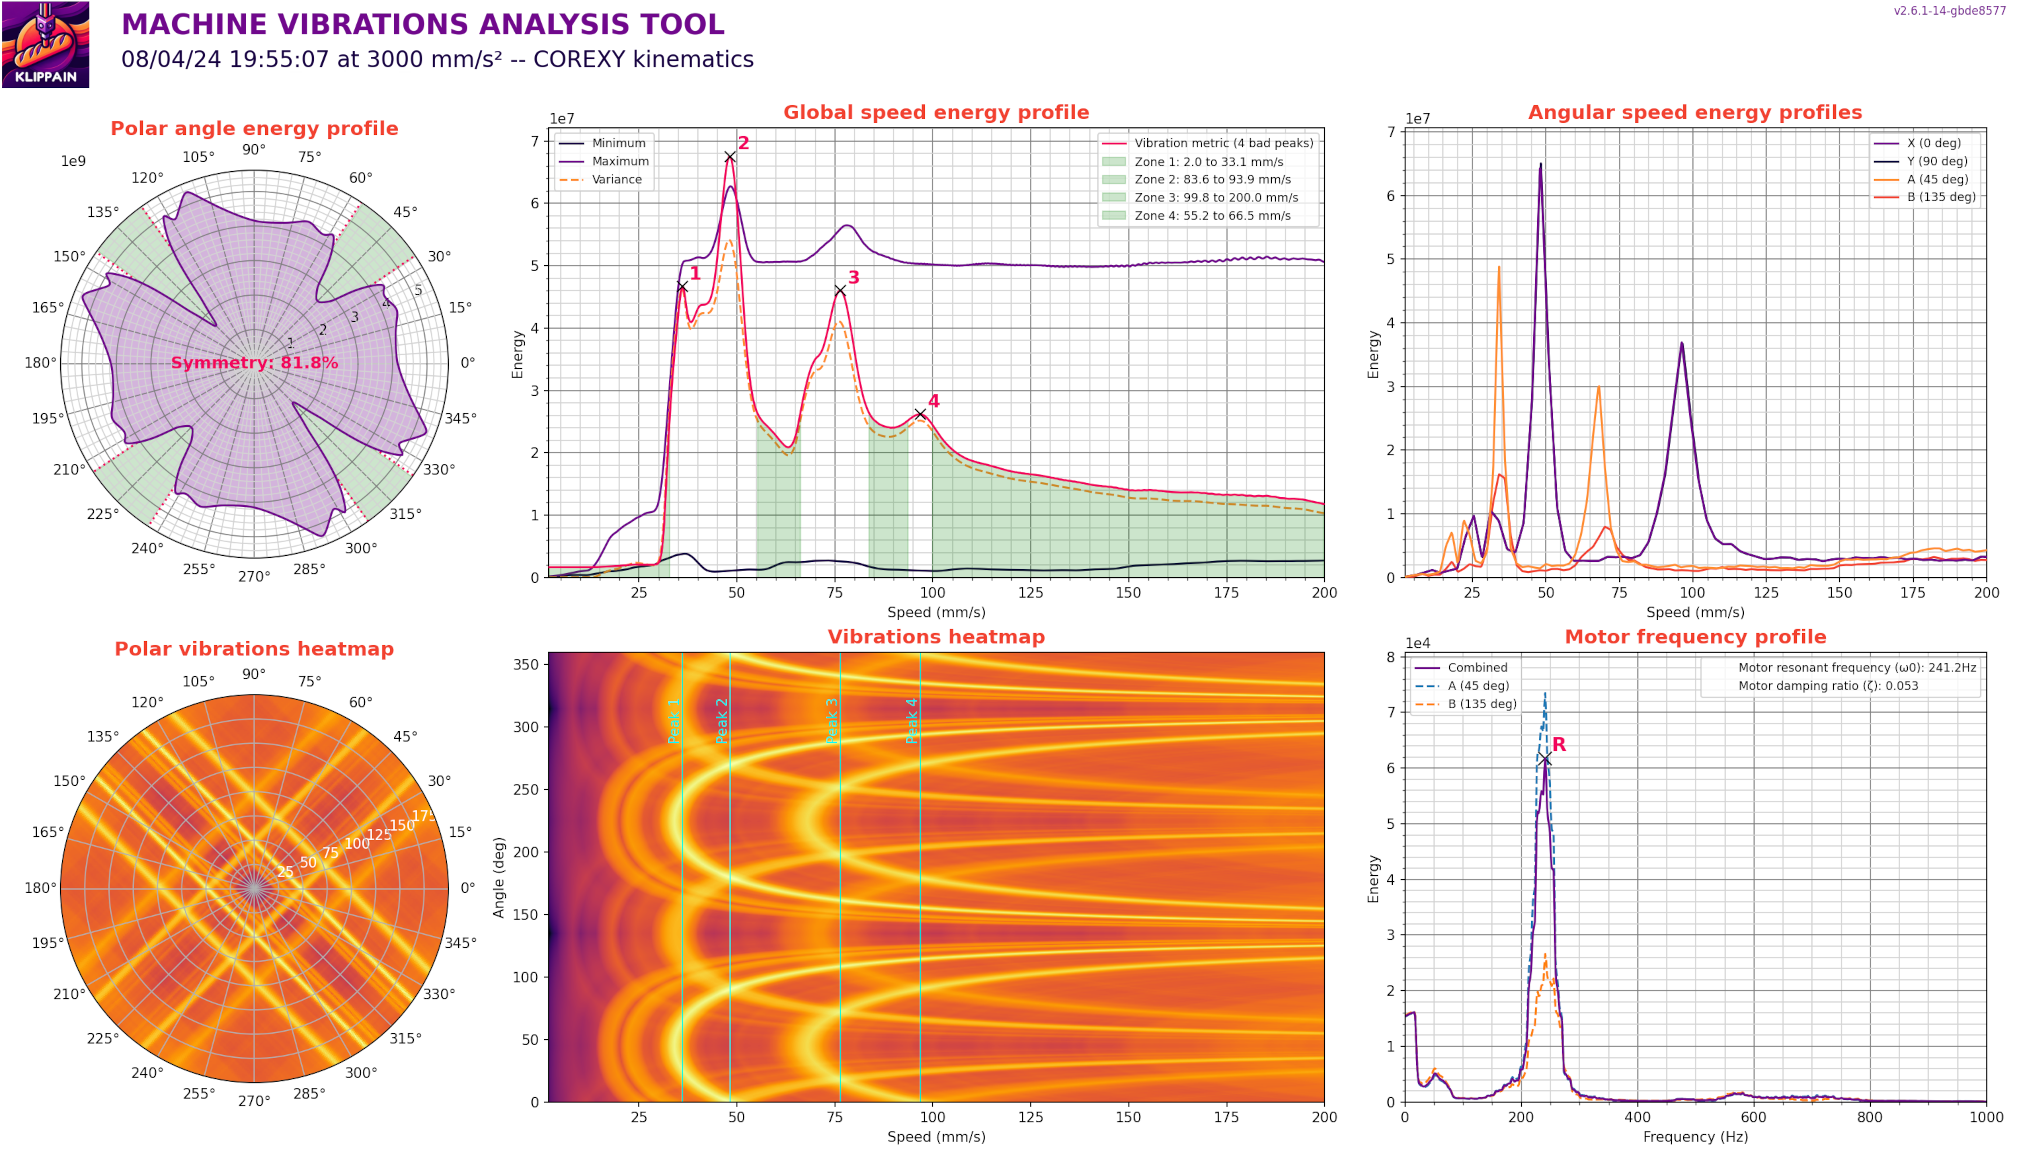
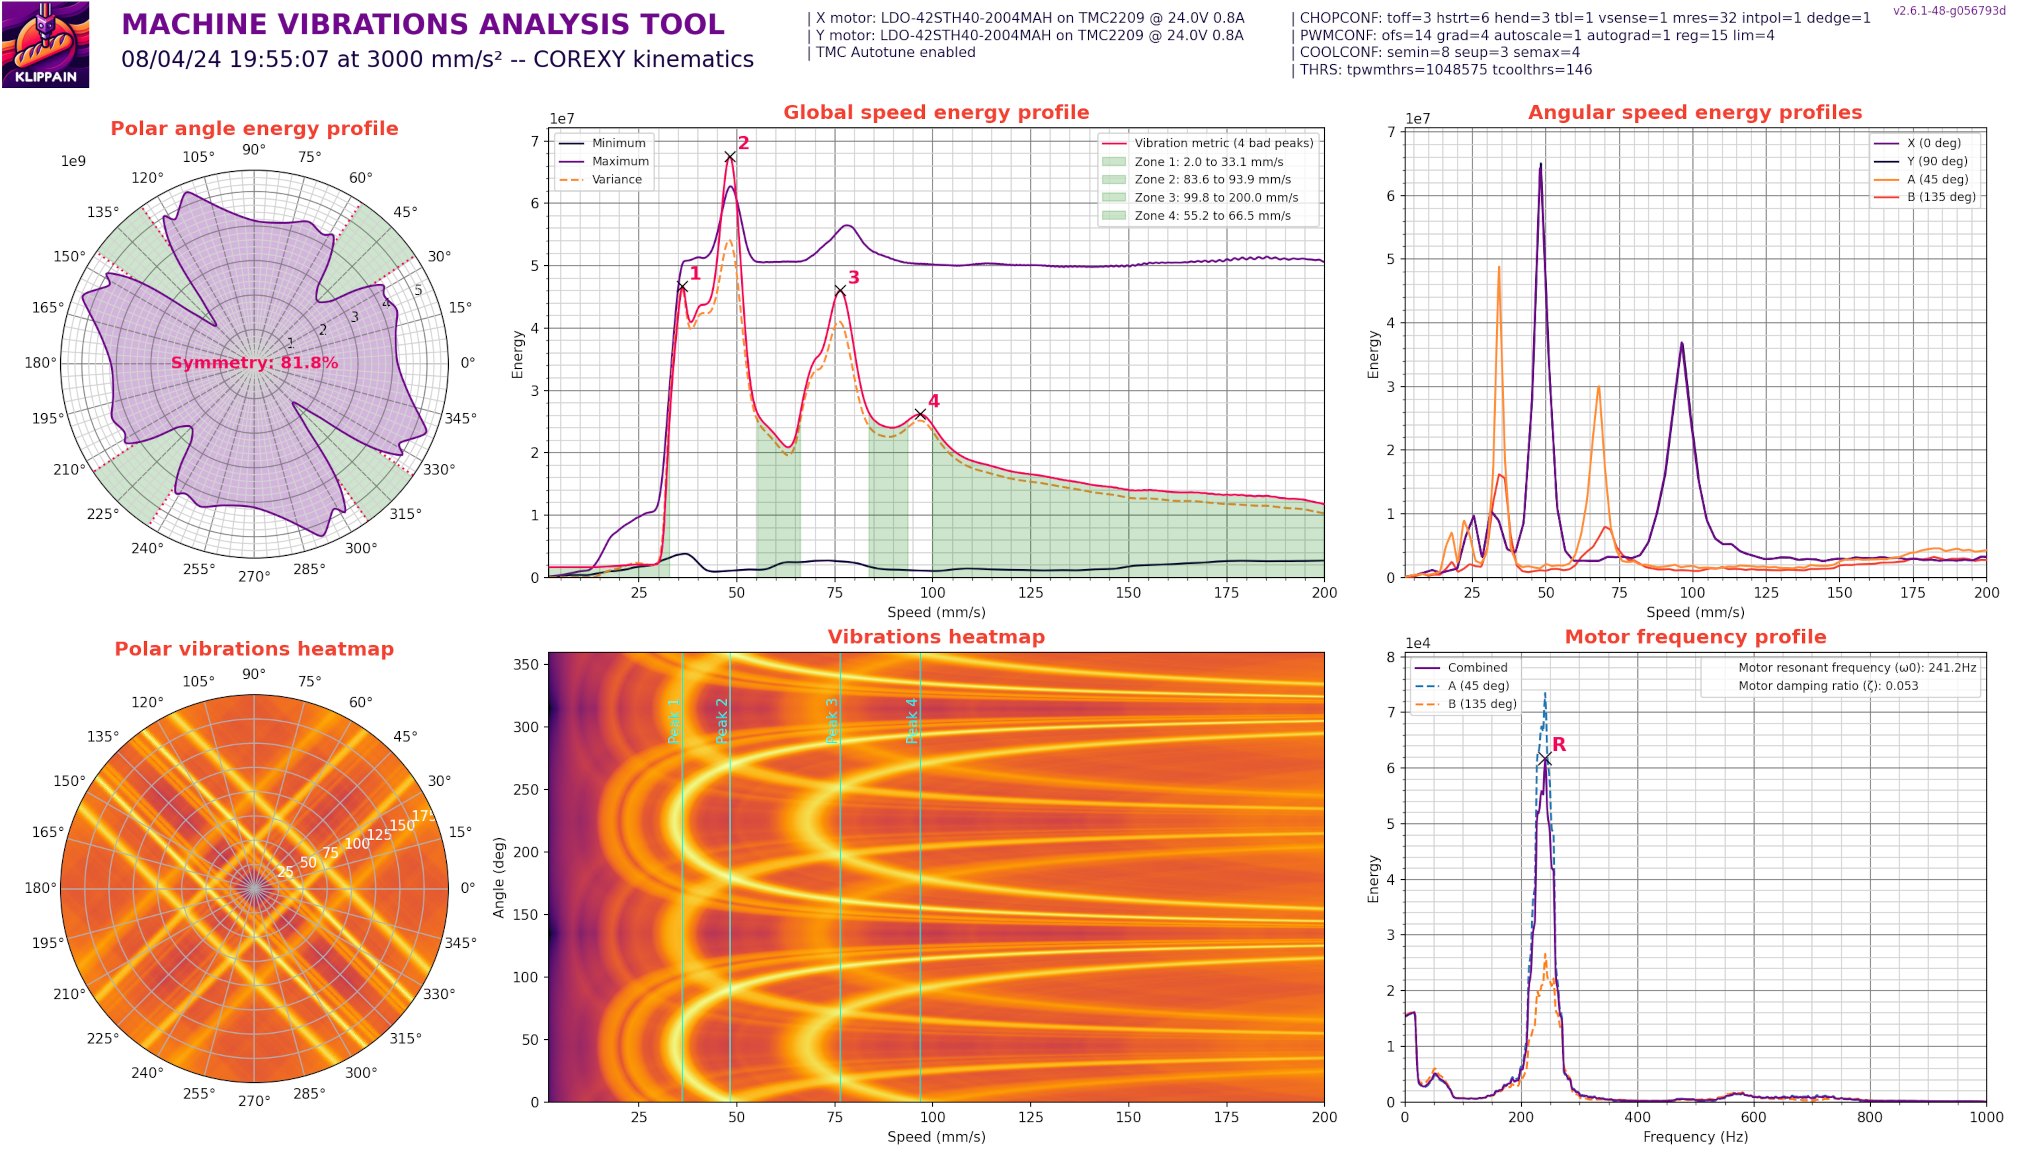
updated documentation with info on detected motor parameters

Changed region(s): [[0.406, 0.0, 0.9058, 0.0621], [0.937, 0.0, 0.9995, 0.031]]

diff --git a/docs/macros/vibrations_profile.md b/docs/macros/vibrations_profile.md
@@ -26,7 +26,7 @@ Call the `CREATE_VIBRATIONS_PROFILE` macro with the speed range you want to meas
 
 ## Graphs description
 
-The `CREATE_VIBRATIONS_PROFILE` macro results are constituted of a set of 6 plots. Following are some details about them.
+The `CREATE_VIBRATIONS_PROFILE` macro results are constituted of a set of 6 plots. At the top of the figure you can also see all the detected motor, current and TMC driver parameters. These notes are just for reference in case you want to tinker with them and don't forget what you changed between each run of the macro.
 
 ![](../images/vibrations_example.png)
 
